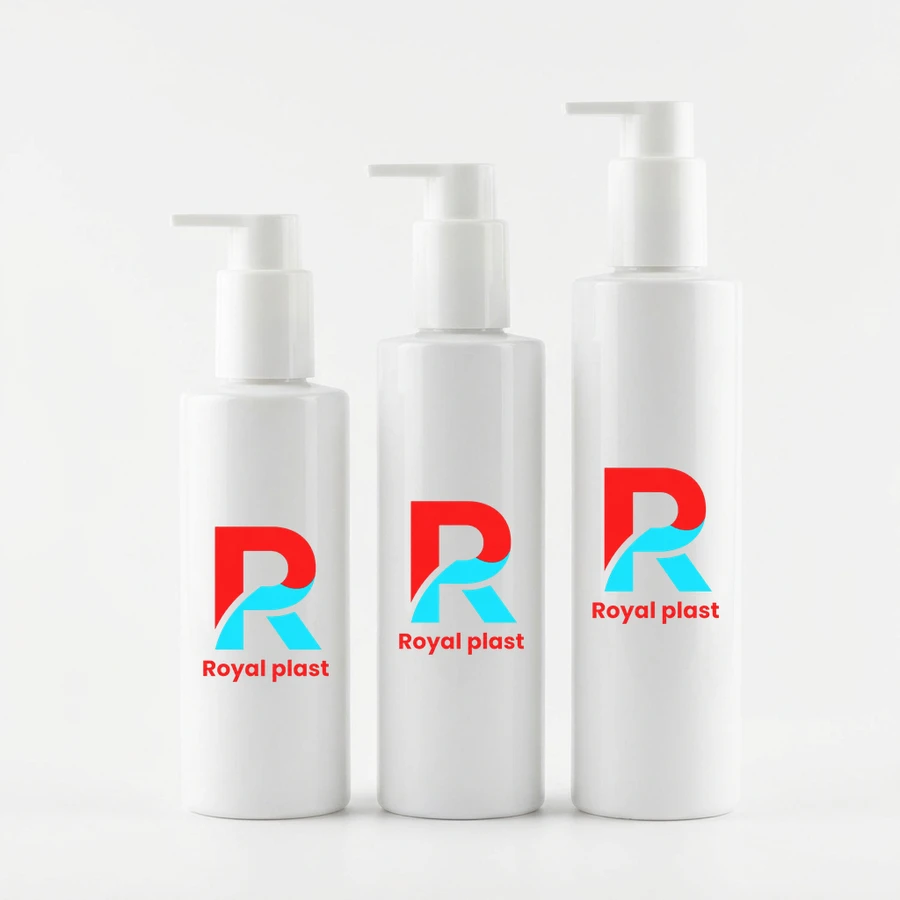
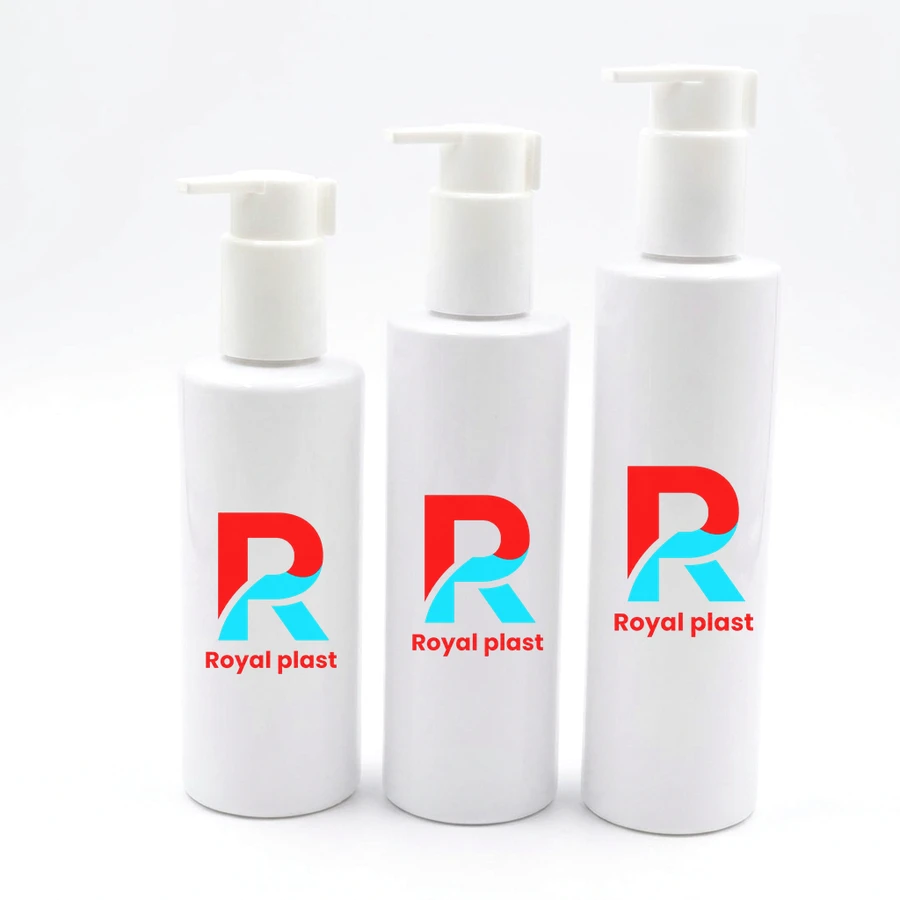
RP-048: redo 063 via edit of original, keep lock pump shape
Claude-Session: https://claude.ai/code/session_01RHpAwk7S9yFShcnyhoKaQD

diff --git a/app.js b/app.js
@@ -55,7 +55,7 @@ function fullTitle(p){return `${t(p.cat=='jar'?'jar':'bottle')} ${sizesTxt(p)}`.
 function sub(p){if(p.nospec)return t('nospec');const a=[];if(p.necks.length)a.push(p.necks.map(n=>'NK'+n).join(' / '));p.caps.forEach(c=>a.push(capName(c)));p.extra.forEach(e=>a.push(lang=='ar'?e.ar:e.en));return a.join(' · ')}
 const colTxt=p=>p.colors.map(c=>t(c)).join('، ').replace(/،/g,lang=='ar'?'، ':', ');
 const dotsHTML=p=>`<span class="dots">${p.colors.map(c=>`<i class="dot d-${c}" title="${t(c)}"></i>`).join('')}</span>`;
-const IMGV='20261109v';const imgU=n=>`img/${n}.webp?v=${IMGV}`,thU=n=>`t/${n}.webp?v=${IMGV}`;
+const IMGV='20261109w';const imgU=n=>`img/${n}.webp?v=${IMGV}`,thU=n=>`t/${n}.webp?v=${IMGV}`;
 function reveal(root){const io=new IntersectionObserver(es=>es.forEach(e=>{if(e.isIntersecting){e.target.classList.add('in');io.unobserve(e.target)}}),{threshold:.12,rootMargin:'0px 0px -40px 0px'});
  (root||document).querySelectorAll('.rv:not(.in)').forEach(el=>io.observe(el))}
 function applyLang(){document.documentElement.lang=lang;document.documentElement.dir=lang=='ar'?'rtl':'ltr';
